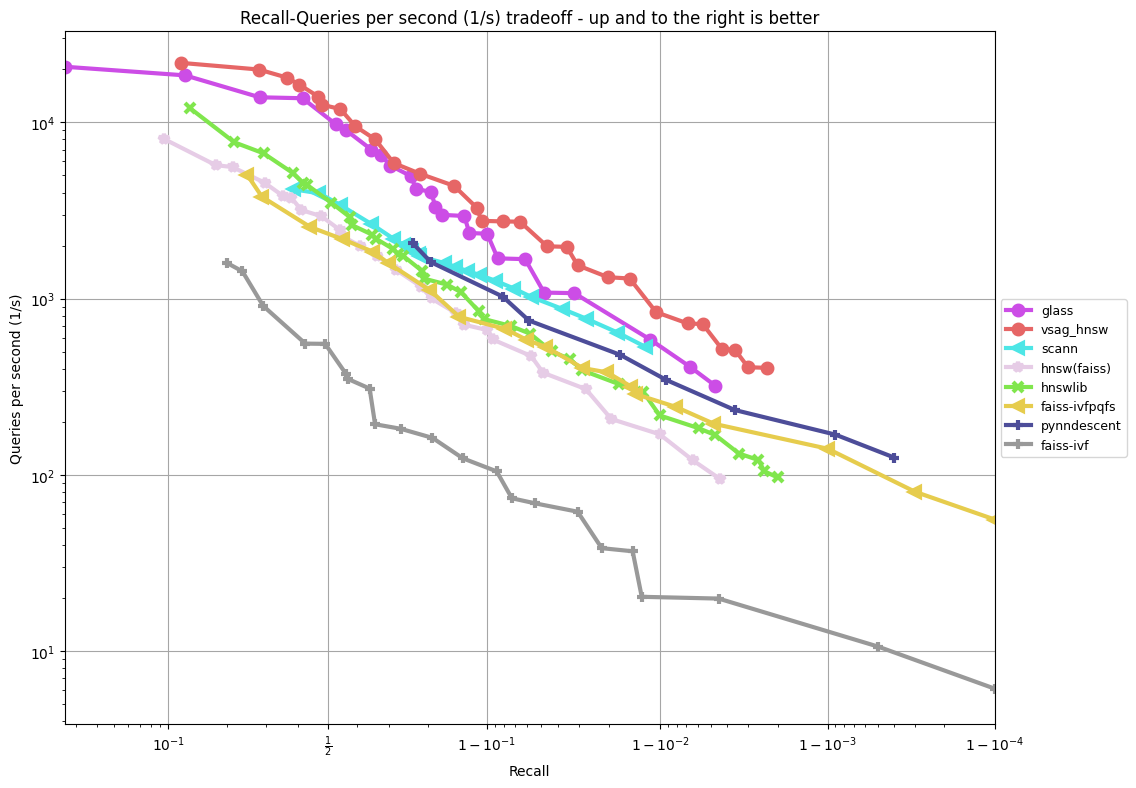
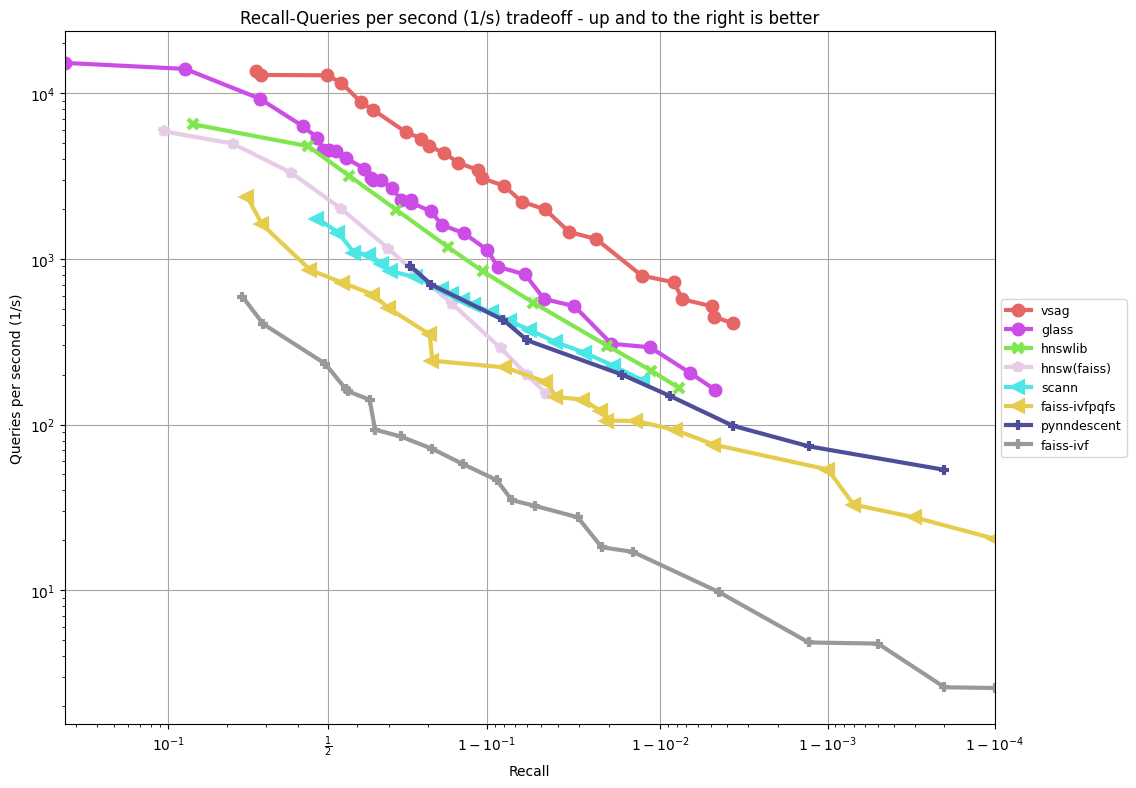
[skip ci]update ann-benchmarks result in README.md (#75)

diff --git a/README.md b/README.md
@@ -12,7 +12,7 @@ ____    ____   _______.     ___       _______
 VSAG is a vector indexing library used for similarity search. The indexing algorithm allows users to search through various sizes of vector sets, especially those that cannot fit in memory. The library also provides methods for generating parameters based on vector dimensions and data scale, allowing developers to use it without understanding the algorithm’s principles. VSAG is written in C++ and provides a Python wrapper package called pyvsag. Developed by the Vector Database Team at Ant Group.
 
 ## Performance
-VSAG provides an optimized HNSW implementation that achieves state-of-the-art (SOTA) performance on the GIST dataset.
+The VSAG algorithm achieves a significant boost of efficiency and outperforms the previous **state-of-the-art (SOTA)** by a clear margin. Specifically, VSAG's QPS exceeds that of the previous SOTA algorithm, Glass, by over 100%, and the baseline algorithm, HNSWLIB, by over 300% according to the ann-benchmark result on the GIST dataset at 90% recall.
 The test in [ann-benchmarks](https://ann-benchmarks.com/) is running on an r6i.16xlarge machine on AWS with `--parallelism 31`, single-CPU, and hyperthreading disabled. 
 The result is as follows:
 